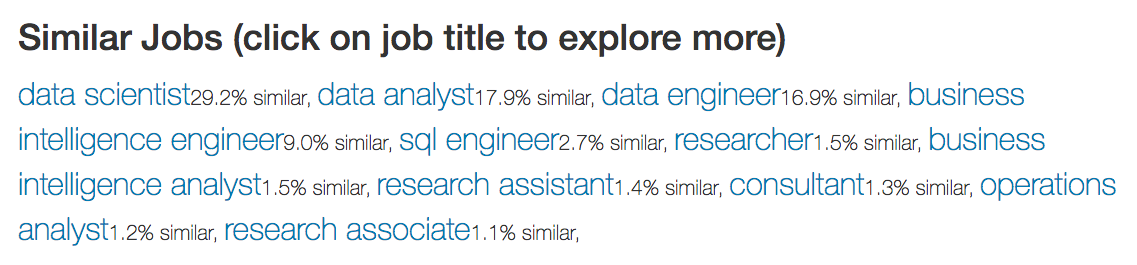
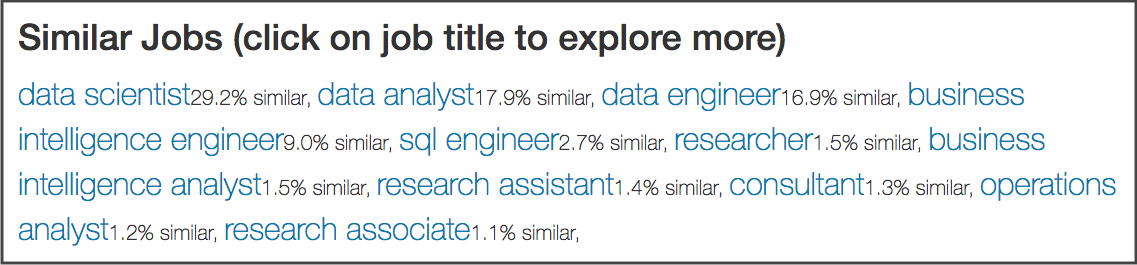
files

Changed region(s): [[0.0, 0.0, 1.0, 1.0]]

diff --git a/content/howitworks/the-models.md b/content/howitworks/the-models.md
@@ -12,7 +12,7 @@ author = "iCareer Climber Team"
 
 We provide career recommendations in a ranked order based on the similarity of a job seeker's current job experiences. Our model is powered by resume information all across the US. This product is a proof of concept and contains a small subset of possible jobs (114 unique job titles). The list of jobs is derived from the availability of salary and resume data. We selected all jobs that contained at least 100 salary records in the past 5 years and 500 resume job summaries in the past 10 years.
 
-<img src="https://raw.githubusercontent.com/icareerclimber/source-code/master/content/howitworks/images_folder/doc_similarity_image1.png" width="1000" border="10">
+<img src="https://raw.githubusercontent.com/icareerclimber/source-code/master/content/howitworks/images_folder/doc_similarity_image1.png" width="1000">
 
 
 </br>
@@ -158,6 +158,8 @@ To play with the data yourself, you can input our [vector file](https://drive.go
 
 
 ## [2] Job Skills Model
+
+<img src="https://raw.githubusercontent.com/icareerclimber/source-code/master/content/howitworks/images_folder/skills_app.png" width="1000">
 
 [Link to Code](https://github.com/kbelsvik/career-skills-capstone/blob/master/model_pipeline/03_process_salary_and_create_ngram_model.ipynb)
 
